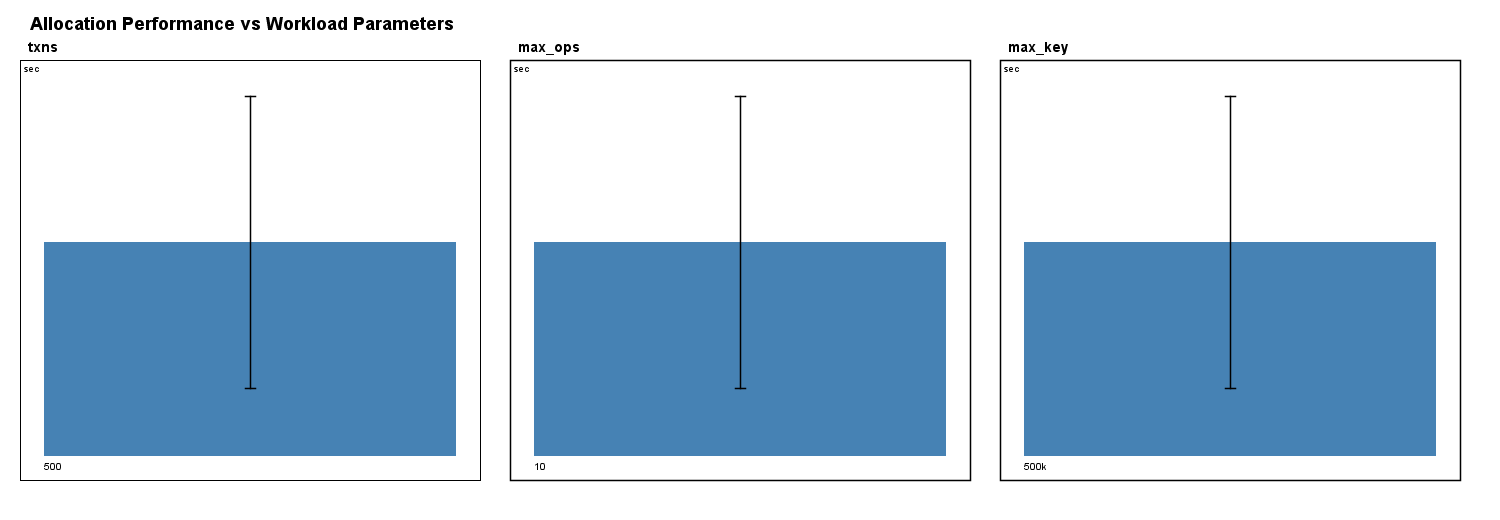
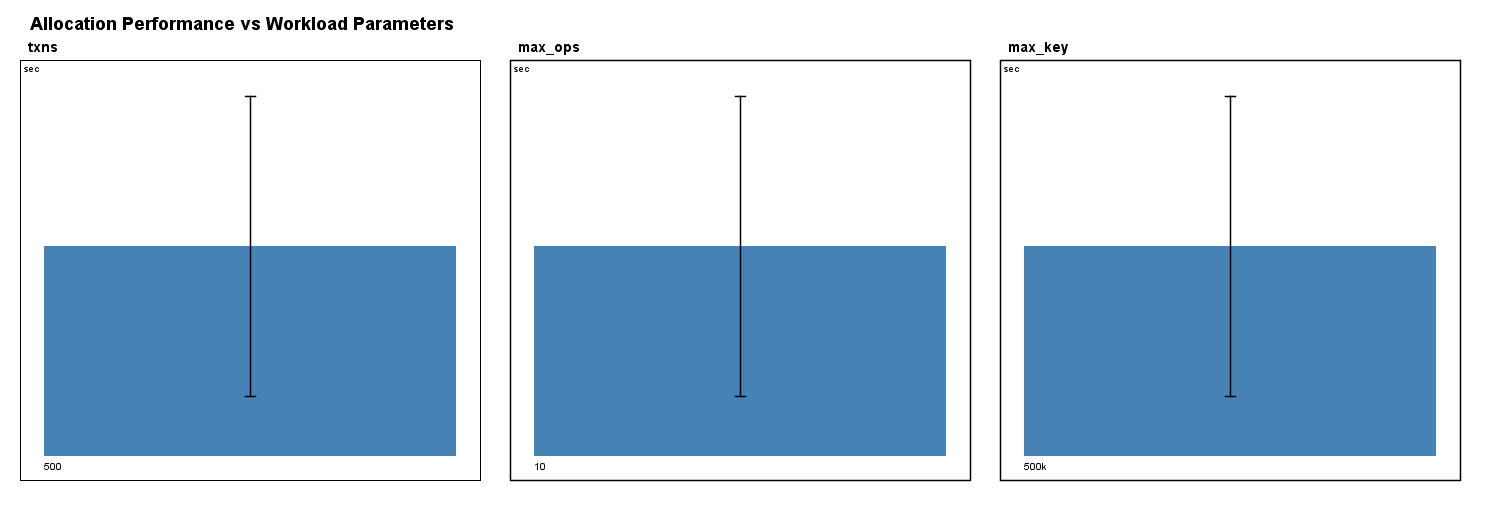
run Executor and fix README

diff --git a/src/main/java/algorithm/Executor.java b/src/main/java/algorithm/Executor.java
@@ -41,8 +41,8 @@ import java.util.regex.Pattern;
 
 public class Executor {
 	private static final int DEFAULT_DC_COUNT = 5;
-	private static final int DEFAULT_MIN_RTT_MS = 100;
-	private static final int DEFAULT_MAX_RTT_MS = 300;
+	private static final int DEFAULT_MIN_RTT_MS = 1;
+	private static final int DEFAULT_MAX_RTT_MS = 3;
 	private static final long TX_TIMEOUT_SECONDS = 120;
 
 	private final List<DataCenterNode> dataCenters;
@@ -277,27 +277,21 @@ public class Executor {
 			return context.getBuffer().get(key);
 		}
 
-		boolean snapshotRead = isSnapshotStyle(context.getLevel());
-		long visibleTs = snapshotRead ? context.getSts() : Long.MAX_VALUE;
-		return localDc.readVisibleValue(key, visibleTs);
-	}
-
-	private boolean isSnapshotStyle(IsolationLevel level) {
-		return level == IsolationLevel.SERIALIZABLE
-				|| level == IsolationLevel.SNAPSHOT_ISOLATION
-				|| level == IsolationLevel.PREFIX_CONSISTENCY
-				|| level == IsolationLevel.PARALLEL_SNAPSHOT_ISOLATION;
+		return localDc.readVisibleValue(key, context.getSts());
 	}
 
 	private boolean tryCommit(int dataCenterId, TxContext context, Set<String> readSet, Set<String> writeSet) {
 		long cts = logicalClock.incrementAndGet();
+		IsolationLevel level = context.getLevel();
 
-		if (context.getLevel() == IsolationLevel.SNAPSHOT_ISOLATION && hasWindowConflict(context.getSts(), cts, readSet, writeSet, false)) {
-			return false;
-		}
-
-		if (context.getLevel() == IsolationLevel.SERIALIZABLE && hasWindowConflict(context.getSts(), cts, readSet, writeSet, true)) {
-			return false;
+		if (level == IsolationLevel.SNAPSHOT_ISOLATION || level == IsolationLevel.PARALLEL_SNAPSHOT_ISOLATION) {
+			if (hasWindowConflict(context.getSts(), cts, readSet, writeSet, true, false)) {
+				return false;
+			}
+		} else if (level == IsolationLevel.SERIALIZABLE) {
+			if (hasWindowConflict(context.getSts(), cts, readSet, writeSet, true, true)) {
+				return false;
+			}
 		}
 
 		commitLog.add(new CommitRecord(context.getSts(), cts, readSet, writeSet));
@@ -309,21 +303,15 @@ public class Executor {
 							 long cts,
 							 Set<String> readSet,
 							 Set<String> writeSet,
-							 boolean strictSerializable) {
+							 boolean checkWw,
+							 boolean checkWr) {
 		for (CommitRecord record : commitLog) {
 			if (record.getCts() > sts && record.getCts() < cts) {
-				boolean rw = !Collections.disjoint(record.getWriteSet(), readSet);
 				boolean ww = !Collections.disjoint(record.getWriteSet(), writeSet);
 				boolean wr = !Collections.disjoint(writeSet, record.getReadSet());
 
-				if (strictSerializable) {
-					if (rw || ww || wr) {
-						return true;
-					}
-				} else {
-					if (rw || ww) {
-						return true;
-					}
+				if ((checkWw && ww) || (checkWr && wr)) {
+					return true;
 				}
 			}
 		}

diff --git a/src/main/java/algorithm/BenchWorkloadExecutorBatch.java b/src/main/java/algorithm/BenchWorkloadExecutorBatch.java
@@ -36,8 +36,10 @@ public class BenchWorkloadExecutorBatch {
 
 		int ok = 0;
 		int fail = 0;
-		for (Path file : files) {
+		for (int i = 0; i < files.size(); i++) {
+			Path file = files.get(i);
 			try {
+				System.out.printf("[RUN] (%d/%d) %s%n", i + 1, files.size(), file.getFileName());
 				ExecutionResult result = Executor.runSingleWorkload(file.toString(), csvPath.toString(), dcCount, minRtt, maxRtt);
 				ok++;
 				System.out.printf("[OK] %s committed=%d aborted=%d throughput=%.2f%n",

diff --git a/README.md b/README.md
@@ -1,12 +1,9 @@
-# Artifact and Technical Report for `On Mixing Database Isolation Levels`
-
-Technical Report: [`tech-rpt.pdf`](tech-rpt.pdf).
+# Artifact for `On Mixing Database Isolation Levels`
 
 ## Directory Organization
 
 ```plain
 /MixIso
-|-- tech-rpt.pdf            # the accompanying technical report
 |-- README.md
 |-- pom.xml                 # Maven project configuration
 |-- src/                    # Java source code for MixIso allocator
@@ -29,7 +26,6 @@ Technical Report: [`tech-rpt.pdf`](tech-rpt.pdf).
 
 - **Java 17** or above is recommended.
 - **Maven** for building the Java project.
-- **Python 3.10+** is optional (legacy scripts only).
 
 ### Build with Maven
 
@@ -58,7 +54,7 @@ All major automation workflows previously in `scripts/*.py` now have Java CLI eq
 
 ```sh
 # 1) Generate benchmark workloads (replaces generate_bench_workload.py)
-java -cp "target/classes;target/dependency/*" algorithm.BenchWorkloadGenerator --sessions 3 --txns-per-session 100 --max-key 50 --cases 3
+java -cp "target/classes;target/dependency/*" algorithm.BenchWorkloadGenerator --sessions 10 --txns-per-session 2 --max-key 50 --cases 3
 
 # 2) Batch allocate benchmark workloads (replaces allocate_bench_workload.py)
 java -cp "target/classes;target/dependency/*" algorithm.BenchWorkloadAllocatorBatch
@@ -73,9 +69,6 @@ java -cp "target/classes;target/dependency/*" algorithm.RandomWorkloadGenerator 
 # 5) Batch allocate random workloads with timing CSV (replaces allocate_random_workload.py)
 java -cp "target/classes;target/dependency/*" algorithm.RandomWorkloadAllocatorBatch
 # -> outputs: data/allocation_performance.csv, data/allocation_performance_analysis.csv, data/allocation_performance.png
-
-# 6) Run random workload experiment orchestration (replaces random_workload_for_test.py)
-java -cp "target/classes;target/dependency/*" algorithm.RandomWorkloadExperiment
 ```
 
 ## Task Guide (Recommended)
@@ -142,12 +135,80 @@ Output:
 Python scripts in `scripts/` are kept for compatibility and quick prototyping.
 The Java CLI workflow above is the primary and recommended path.
 
-## Reproduce Experiments
+## Evaluation
 
-### Q1: Benchmark Workload Allocation
+This section describes how to reproduce the evaluation from the paper "On Mixing Database Isolation Levels".
 
-Use **Task A** in the section above.
+### Research Questions
 
-### Q2: Random Workload Allocation & Performance Analysis
+The evaluation addresses three key research questions:
 
-Use **Task B** and **Task C** in the section above.
+1. **Q1: Effectiveness** — Can our allocator safely allocate weaker isolation levels than existing approaches while preserving serializability?
+
+2. **Q2: Efficiency** — How efficient is our allocator in computing isolation level allocations on large workloads?
+
+3. **Q3: System Performance** — To what extent do the weaker isolation levels assigned by our allocator translate into performance gains in database systems?
+
+### Benchmarks
+
+We use three representative OLTP benchmarks:
+
+- **SmallBank**: Bank transaction workload with balance queries, deposits, and transfers
+- **TPC-C**: Industry standard wholesale distribution business workload
+- **Courseware**: University course enrollment system workload
+
+### Reproduce Experiments
+
+#### Q1: Benchmark Workload Allocation & Execution
+
+Use **Task A** to generate benchmark workloads, allocate isolation levels, and execute them with distributed simulation:
+
+```sh
+# 1) Generate benchmark workloads
+java -cp "target/classes;target/dependency/*" algorithm.BenchWorkloadGenerator --sessions 3 --txns-per-session 100 --max-key 50 --cases 3
+
+# 2) Allocate isolation levels in batch
+java -cp "target/classes;target/dependency/*" algorithm.BenchWorkloadAllocatorBatch
+
+# 3) Execute allocated benchmark workloads with distributed simulation
+java -cp "target/classes;target/dependency/*" algorithm.BenchWorkloadExecutorBatch 5 100 300 data/bench_execution_results.csv
+```
+
+**Output**: Distribution of isolation levels across program instances in each benchmark at `data/bench_allocation_distribution.csv`.
+
+#### Q2: Allocation Efficiency on Random Workloads
+
+Use **Task B** and **Task C** to evaluate the allocator's scalability by varying workload parameters:
+
+```sh
+# 1) Generate random workloads with default parameters
+java -cp "target/classes;target/dependency/*" algorithm.RandomWorkloadGenerator --txns 500 --max-ops 10 --max-key 500000 --read-only 30 --cases 5
+
+# 2) Allocate all random workloads and measure timing
+java -cp "target/classes;target/dependency/*" algorithm.RandomWorkloadAllocatorBatch
+
+# 3) Run controlled experiment sweep with parameter variations
+java -cp "target/classes;target/dependency/*" algorithm.RandomWorkloadExperiment
+```
+
+**Output**: Allocation timing and performance metrics at `data/allocation_performance.csv` and `data/allocation_performance_analysis.csv`.
+
+To measure scalability across different parameters:
+- Vary transaction count by adjusting `--txns` parameter
+- Vary operations per transaction by adjusting `--max-ops` parameter
+- Vary key space size by adjusting `--max-key` parameter
+
+#### Q3: System Performance with Mixed Isolation Levels
+
+Execute **Task A** (specifically step 3) to measure throughput and latency improvements from fine-grained isolation level allocation:
+
+```sh
+java -cp "target/classes;target/dependency/*" algorithm.BenchWorkloadExecutorBatch 5 100 300 data/bench_execution_results.csv
+```
+
+This executes the allocated workloads in a simulated distributed setting (5 data centers with 100–300ms WAN latencies) and reports throughput and latency metrics.
+
+**Output**: Execution statistics at `data/bench_execution_results.csv`, including:
+- Throughput (transactions per second)
+- Latency (average transaction completion time)
+- Commit/abort rates per isolation level
